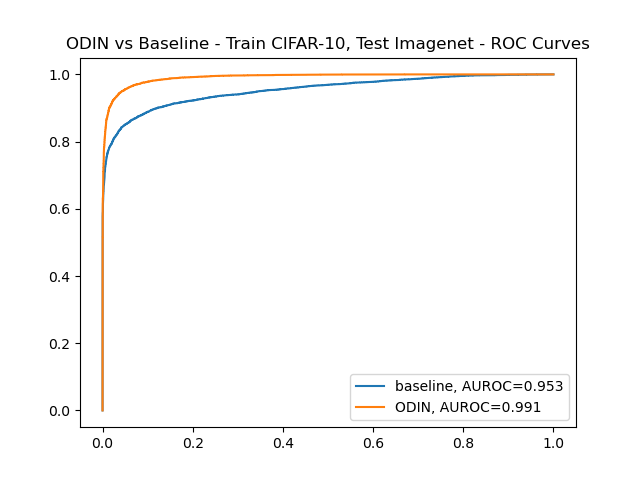
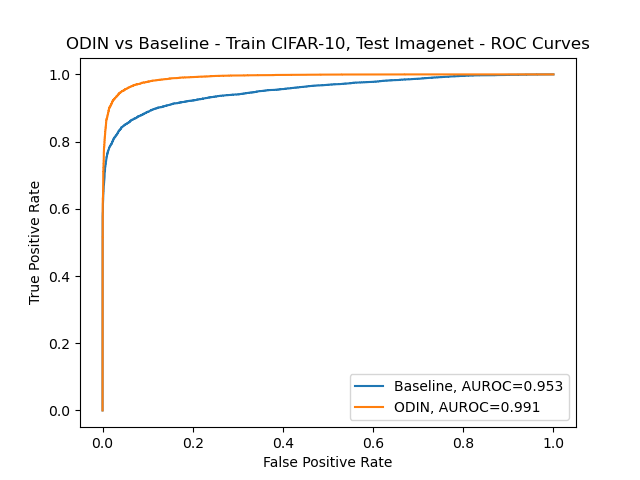
added PR curves and code

Changed region(s): [[0.5938, 0.7812, 0.875, 0.875], [0.0312, 0.375, 0.0625, 0.625], [0.4062, 0.9375, 0.625, 0.9688]]

diff --git a/src/ODIN/generate_ROC_PR_curves.py b/src/ODIN/generate_ROC_PR_curves.py
@@ -5,42 +5,70 @@
 
 import matplotlib.pyplot as plt
 import numpy as np
-import sklearn.metrics
+from sklearn.metrics import auc, precision_recall_curve, roc_curve
 
-PARENT_DIRECTORY = "./Train_CIFAR-10_Test_Imagenet/" # set the parent directory of the text file results
-TITLE = "ODIN vs Baseline - Train CIFAR-10, Test Imagenet - " # title of the plots
+PARENT_DIRECTORY = "./Train_CIFAR-10_Test_SVHN/" # set the parent directory of the text file results
+TITLE = "ODIN vs Baseline - Train CIFAR-10, Test SVHN - " # title of the plots
 
 baseline_ID_data = np.loadtxt(PARENT_DIRECTORY+'confidence_Base_In.txt', delimiter=',')
 baseline_OOD_data = np.loadtxt(PARENT_DIRECTORY+'confidence_Base_Out.txt', delimiter=',')
 ODIN_ID_data = np.loadtxt(PARENT_DIRECTORY+'confidence_Our_In.txt', delimiter=',')
 ODIN_OOD_data = np.loadtxt(PARENT_DIRECTORY+'confidence_Our_Out.txt', delimiter=',')
 
-def generate_ROC_curve(ID_data, OOD_data, name=""):
+def calc_ROC_PR_data(ID_data, OOD_data):
     ID_probabilities = ID_data[:,2:]
     OOD_probabilities = OOD_data[:,2:]
     ID_labels = np.ones_like(ID_probabilities)
     OOD_labels = np.zeros_like(OOD_probabilities)
 
     # https://scikit-learn.org/stable/modules/generated/sklearn.metrics.RocCurveDisplay.html
-    (fpr,tpr,thresholds) = sklearn.metrics.roc_curve(
+    (fpr,tpr,thresholds) = roc_curve(
         np.concatenate((ID_labels, OOD_labels),axis=0),
         np.concatenate((ID_probabilities, OOD_probabilities),axis=0),
     )
 
-    roc_auc = sklearn.metrics.auc(fpr, tpr)
+    (precision,recall,thresholds) = precision_recall_curve(
+        np.concatenate((ID_labels, OOD_labels),axis=0),
+        np.concatenate((ID_probabilities, OOD_probabilities),axis=0),
+    )
+
+    roc_auc = auc(fpr, tpr)
+    pr_auc = auc(recall, precision)
+
 
     # display = sklearn.metrics.RocCurveDisplay(fpr=fpr, tpr=tpr, roc_auc=roc_auc, estimator_name=name)
     # display.plot()
 
-    # https://stackoverflow.com/questions/42894871/how-to-plot-multiple-roc-curves-in-one-plot-with-legend-and-auc-scores-in-python
-    plt.plot(fpr,tpr,label="{}, AUROC={:.3f}".format(name,roc_auc))
+    return fpr, tpr, roc_auc, precision, recall, pr_auc
+    
+(
+  baseline_fpr, baseline_tpr, baseline_auroc,
+  baseline_precision, baseline_recall, baseline_aupr
+) = calc_ROC_PR_data(baseline_ID_data, baseline_OOD_data)
+(
+  ODIN_fpr, ODIN_tpr, ODIN_auroc,
+  ODIN_precision, ODIN_recall, ODIN_aupr
+) = calc_ROC_PR_data(ODIN_ID_data, ODIN_OOD_data)
 
-plt.figure(0).clf()
-
-generate_ROC_curve(baseline_ID_data,baseline_OOD_data,"baseline")
-generate_ROC_curve(ODIN_ID_data,ODIN_OOD_data,"ODIN")
-
+plt.figure(1).clf()
 plt.title(TITLE + "ROC Curves")
+plt.xlabel('False Positive Rate')
+plt.ylabel('True Positive Rate')
+plt.plot(baseline_fpr,baseline_tpr,label="Baseline, AUROC={:.3f}".format(baseline_auroc))
+plt.plot(ODIN_fpr,ODIN_tpr,label="ODIN, AUROC={:.3f}".format(ODIN_auroc))
 plt.legend(loc=0)
 plt.savefig(PARENT_DIRECTORY+'roc_curve.png')
+
+plt.figure(2).clf()
+plt.title(TITLE + "PR Curves")
+plt.xlabel('Recall')
+plt.ylabel('Precision')
+plt.plot(baseline_precision,baseline_recall,label="Baseline, AUPR={:.3f}".format(baseline_aupr))
+plt.plot(ODIN_precision,ODIN_recall,label="ODIN, AUPR={:.3f}".format(ODIN_aupr))
+plt.legend(loc='best')
+plt.savefig(PARENT_DIRECTORY+'pr_curve.png')
+
+
+
+
 plt.show()
